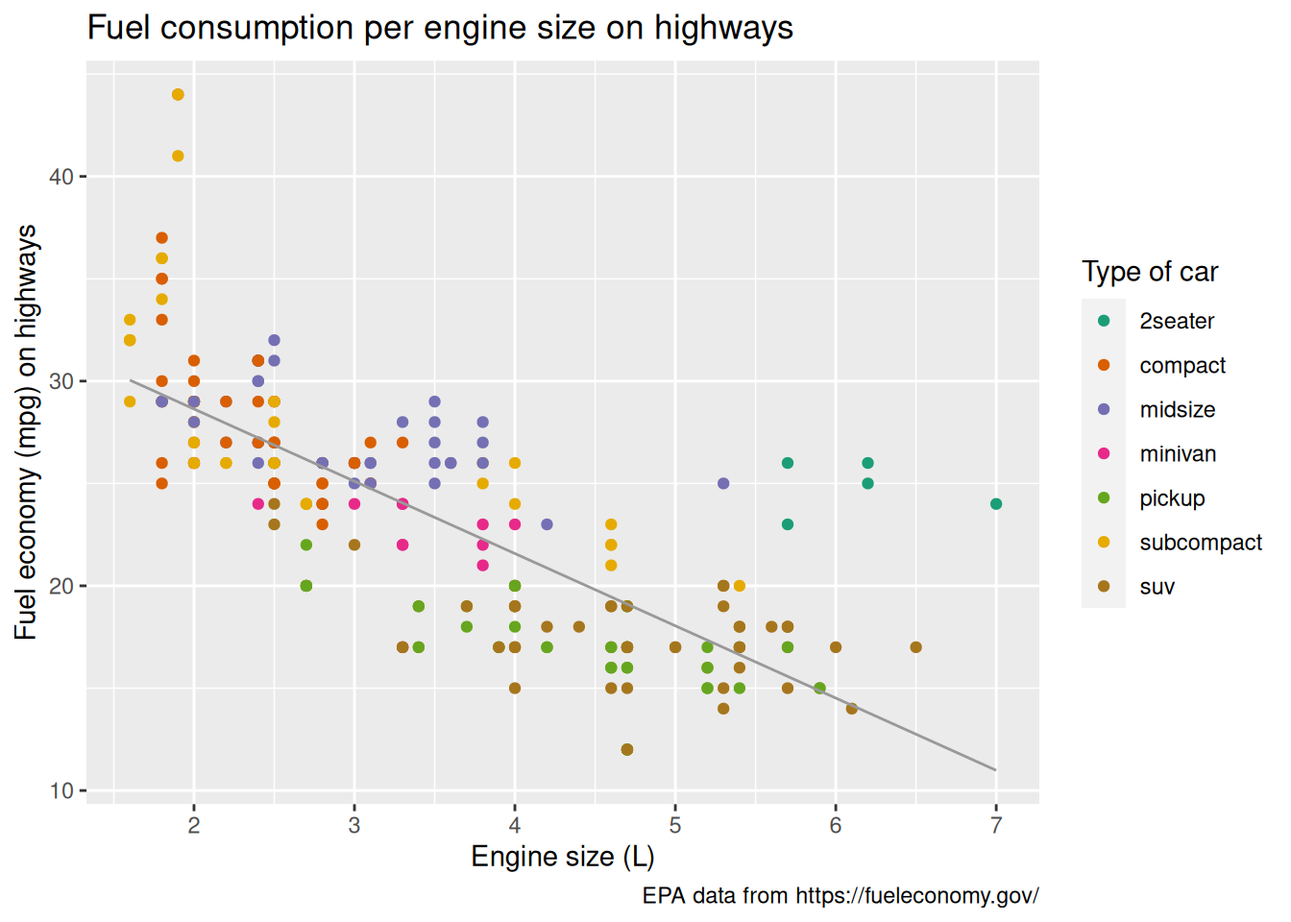
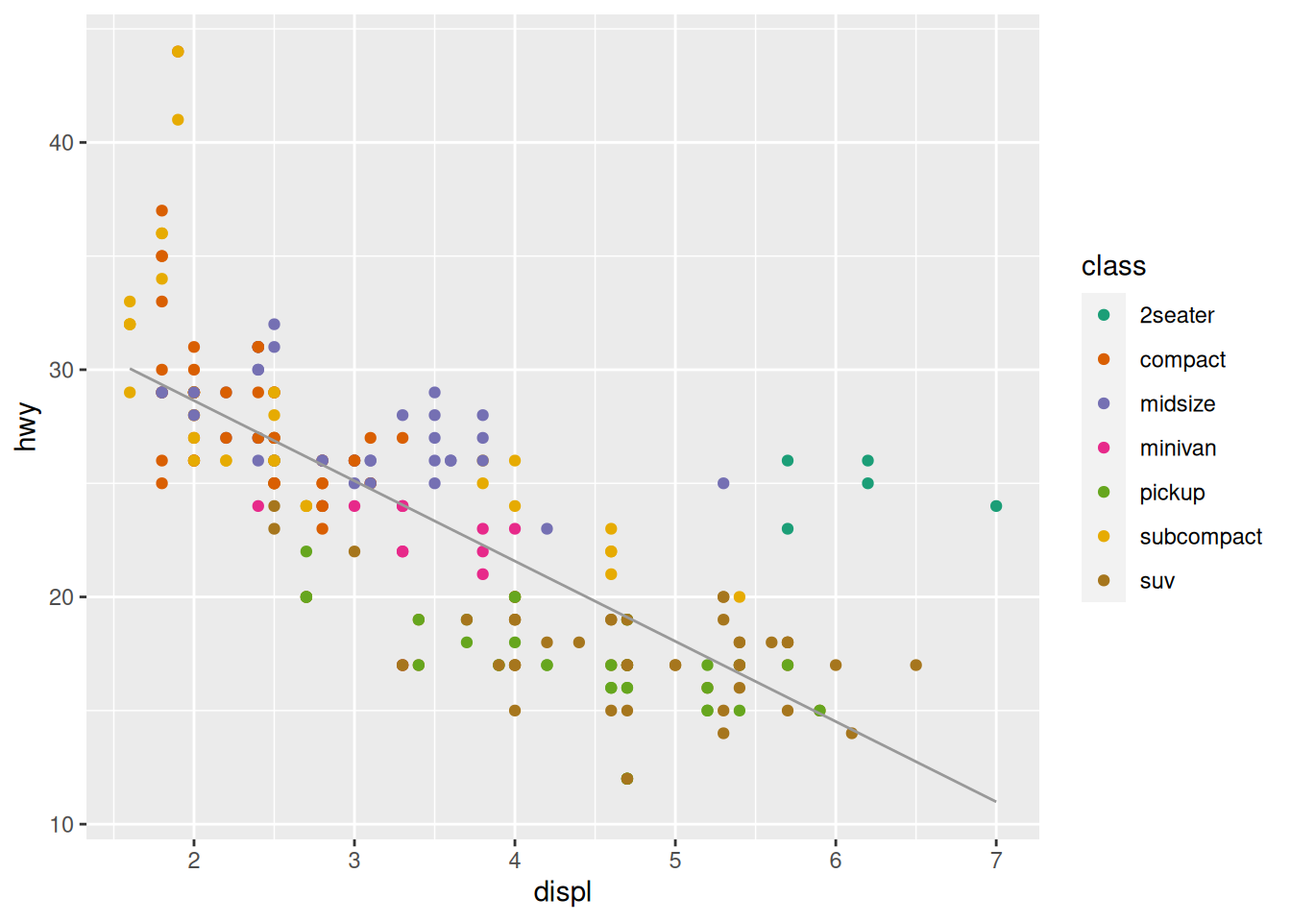
add color scale png

diff --git a/_site/r/plotting.html b/_site/r/plotting.html
@@ -400,7 +400,16 @@ code span.wa { color: #60a0b0; font-weight: bold; font-style: italic; } /* Warni
   <li><a href="#the-data" id="toc-the-data" class="nav-link active" data-scroll-target="#the-data">The data</a></li>
   <li><a href="#base-r-plotting" id="toc-base-r-plotting" class="nav-link" data-scroll-target="#base-r-plotting">Base R plotting</a></li>
   <li><a href="#grammar-of-graphics" id="toc-grammar-of-graphics" class="nav-link" data-scroll-target="#grammar-of-graphics">Grammar of graphics</a></li>
-  <li><a href="#plotting-with-ggplot2" id="toc-plotting-with-ggplot2" class="nav-link" data-scroll-target="#plotting-with-ggplot2">Plotting with ggplot2</a></li>
+  <li><a href="#plotting-with-ggplot2" id="toc-plotting-with-ggplot2" class="nav-link" data-scroll-target="#plotting-with-ggplot2">Plotting with <code>ggplot2</code></a>
+  <ul>
+  <li><a href="#the-canvas" id="toc-the-canvas" class="nav-link" data-scroll-target="#the-canvas">The Canvas</a></li>
+  <li><a href="#geometric-representations-of-the-data" id="toc-geometric-representations-of-the-data" class="nav-link" data-scroll-target="#geometric-representations-of-the-data">Geometric representations of the data</a></li>
+  <li><a href="#colour-scales" id="toc-colour-scales" class="nav-link" data-scroll-target="#colour-scales">Colour scales</a></li>
+  <li><a href="#labels" id="toc-labels" class="nav-link" data-scroll-target="#labels">Labels</a></li>
+  <li><a href="#themes" id="toc-themes" class="nav-link" data-scroll-target="#themes">Themes</a></li>
+  <li><a href="#layout" id="toc-layout" class="nav-link" data-scroll-target="#layout">Layout</a></li>
+  </ul></li>
+  <li><a href="#ggplot2-extensions" id="toc-ggplot2-extensions" class="nav-link" data-scroll-target="#ggplot2-extensions"><code>ggplot2</code> extensions</a></li>
   </ul>
 </nav>
     </div>
@@ -505,7 +514,9 @@ code span.wa { color: #60a0b0; font-weight: bold; font-style: italic; } /* Warni
 <p><code>ggplot2</code> has become the dominant graphing package in R. Let’s see how to construct a plot with this package.</p>
 </section>
 <section id="plotting-with-ggplot2" class="level2">
-<h2 class="anchored" data-anchor-id="plotting-with-ggplot2">Plotting with ggplot2</h2>
+<h2 class="anchored" data-anchor-id="plotting-with-ggplot2">Plotting with <code>ggplot2</code></h2>
+<section id="the-canvas" class="level3">
+<h3 class="anchored" data-anchor-id="the-canvas">The Canvas</h3>
 <p>The first component is the data:</p>
 <div class="cell" data-hash="plotting_cache/html/unnamed-chunk-4_e267c1664d6d338d6140af846a7780fd">
 <div class="sourceCode cell-code" id="cb5"><pre class="sourceCode r code-with-copy"><code class="sourceCode r"><span id="cb5-1"><a href="#cb5-1" aria-hidden="true" tabindex="-1"></a><span class="fu">ggplot</span>(<span class="at">data =</span> mpg)</span></code><button title="Copy to Clipboard" class="code-copy-button"><i class="bi"></i></button></pre></div>
@@ -526,6 +537,9 @@ code span.wa { color: #60a0b0; font-weight: bold; font-style: italic; } /* Warni
 <div class="note">
 <p>This can be simplified into <code>ggplot(mpg, aes(x = displ, y = hwy))</code>.</p>
 </div>
+</section>
+<section id="geometric-representations-of-the-data" class="level3">
+<h3 class="anchored" data-anchor-id="geometric-representations-of-the-data">Geometric representations of the data</h3>
 <p>Onto this canvas, we can add “geoms” (geometrical objects) representing the data. The type of “geom” defines the type of representation (e.g.&nbsp;boxplot, histogram, bar chart).</p>
 <p>To represent the data as a scatterplot, we use the <code>geom_point()</code> function:</p>
 <div class="cell" data-hash="plotting_cache/html/unnamed-chunk-6_8e58edafcd49ad40b73db693e29e498d">
@@ -551,35 +565,36 @@ code span.wa { color: #60a0b0; font-weight: bold; font-style: italic; } /* Warni
 <p><img src="plotting_files/figure-html/unnamed-chunk-8-1.png" class="img-fluid" width="672"></p>
 </div>
 </div>
-<p>If we want to change the colour scale, we add another layer for this:</p>
-<div class="cell" data-hash="plotting_cache/html/unnamed-chunk-9_082e68fc13b405d9e540e74b0bdf92d1">
+<p>Multiple “geoms” can be added on top of each other. For instance, we can add a smoothed conditional means function that aids at seeing patterns in the data with <code>geom_smooth()</code>:</p>
+<div class="cell" data-hash="plotting_cache/html/unnamed-chunk-9_2eba7516b5ddc95a9e43945d23e8078c">
 <div class="sourceCode cell-code" id="cb10"><pre class="sourceCode r code-with-copy"><code class="sourceCode r"><span id="cb10-1"><a href="#cb10-1" aria-hidden="true" tabindex="-1"></a><span class="fu">ggplot</span>(mpg, <span class="fu">aes</span>(<span class="at">x =</span> displ, <span class="at">y =</span> hwy)) <span class="sc">+</span></span>
 <span id="cb10-2"><a href="#cb10-2" aria-hidden="true" tabindex="-1"></a>  <span class="fu">geom_point</span>(<span class="fu">aes</span>(<span class="at">color =</span> class)) <span class="sc">+</span></span>
-<span id="cb10-3"><a href="#cb10-3" aria-hidden="true" tabindex="-1"></a>  <span class="fu">scale_color_brewer</span>(<span class="at">palette =</span> <span class="st">"Dark2"</span>)</span></code><button title="Copy to Clipboard" class="code-copy-button"><i class="bi"></i></button></pre></div>
+<span id="cb10-3"><a href="#cb10-3" aria-hidden="true" tabindex="-1"></a>  <span class="fu">geom_smooth</span>()</span></code><button title="Copy to Clipboard" class="code-copy-button"><i class="bi"></i></button></pre></div>
+<div class="cell-output cell-output-stderr">
+<pre><code>`geom_smooth()` using method = 'loess' and formula = 'y ~ x'</code></pre>
+</div>
 <div class="cell-output-display">
 <p><img src="plotting_files/figure-html/unnamed-chunk-9-1.png" class="img-fluid" width="672"></p>
 </div>
 </div>
-<p>Multiple “geoms” can be added on top of each other. For instance, we can add a smoothed conditional means function that aids at seeing patterns in the data with <code>geom_smooth()</code>:</p>
-<div class="cell" data-hash="plotting_cache/html/unnamed-chunk-10_b673544f2194e94bdd2edecc56e6688a">
-<div class="sourceCode cell-code" id="cb11"><pre class="sourceCode r code-with-copy"><code class="sourceCode r"><span id="cb11-1"><a href="#cb11-1" aria-hidden="true" tabindex="-1"></a><span class="fu">ggplot</span>(mpg, <span class="fu">aes</span>(<span class="at">x =</span> displ, <span class="at">y =</span> hwy)) <span class="sc">+</span></span>
-<span id="cb11-2"><a href="#cb11-2" aria-hidden="true" tabindex="-1"></a>  <span class="fu">geom_point</span>(<span class="fu">aes</span>(<span class="at">color =</span> class)) <span class="sc">+</span></span>
-<span id="cb11-3"><a href="#cb11-3" aria-hidden="true" tabindex="-1"></a>  <span class="fu">scale_color_brewer</span>(<span class="at">palette =</span> <span class="st">"Dark2"</span>) <span class="sc">+</span></span>
-<span id="cb11-4"><a href="#cb11-4" aria-hidden="true" tabindex="-1"></a>  <span class="fu">geom_smooth</span>()</span></code><button title="Copy to Clipboard" class="code-copy-button"><i class="bi"></i></button></pre></div>
+<p>Thanks to the colour-coding of the types of car, we can see that the cluster of points in the top right corner all belong to the same type: 2 seaters. Those are outliers with high power, yet high few efficiency due to their smaller size.</p>
+<p>The default smoothing function uses the LOESS (locally estimated scatterplot smoothing) method, which is a nonlinear regression. But maybe a linear model would actually show the general trend better. We can change the method by passing it as an argument to <code>geom_smooth()</code>:</p>
+<div class="cell" data-hash="plotting_cache/html/unnamed-chunk-10_a9f4a8fe9386c2d6337126f91f4f989c">
+<div class="sourceCode cell-code" id="cb12"><pre class="sourceCode r code-with-copy"><code class="sourceCode r"><span id="cb12-1"><a href="#cb12-1" aria-hidden="true" tabindex="-1"></a><span class="fu">ggplot</span>(mpg, <span class="fu">aes</span>(<span class="at">x =</span> displ, <span class="at">y =</span> hwy)) <span class="sc">+</span></span>
+<span id="cb12-2"><a href="#cb12-2" aria-hidden="true" tabindex="-1"></a>  <span class="fu">geom_point</span>(<span class="fu">aes</span>(<span class="at">color =</span> class)) <span class="sc">+</span></span>
+<span id="cb12-3"><a href="#cb12-3" aria-hidden="true" tabindex="-1"></a>  <span class="fu">geom_smooth</span>(<span class="at">method =</span> lm)</span></code><button title="Copy to Clipboard" class="code-copy-button"><i class="bi"></i></button></pre></div>
 <div class="cell-output cell-output-stderr">
-<pre><code>`geom_smooth()` using method = 'loess' and formula = 'y ~ x'</code></pre>
+<pre><code>`geom_smooth()` using formula = 'y ~ x'</code></pre>
 </div>
 <div class="cell-output-display">
 <p><img src="plotting_files/figure-html/unnamed-chunk-10-1.png" class="img-fluid" width="672"></p>
 </div>
 </div>
-<p>Thanks to the colour-coding of the types of car, we can see that the cluster of points in the top right corner all belong to the same type: 2 seaters. Those are outliers with high power, yet high few efficiency due to their smaller size.</p>
-<p>The default smoothing function uses the LOESS (locally estimated scatterplot smoothing) method, which is a nonlinear regression. But maybe a linear model would actually show the general trend better. We can change the method by passing it as an argument to <code>geom_smooth()</code>:</p>
-<div class="cell" data-hash="plotting_cache/html/unnamed-chunk-11_0fa237da1ec940520f8f129c54158da4">
-<div class="sourceCode cell-code" id="cb13"><pre class="sourceCode r code-with-copy"><code class="sourceCode r"><span id="cb13-1"><a href="#cb13-1" aria-hidden="true" tabindex="-1"></a><span class="fu">ggplot</span>(mpg, <span class="fu">aes</span>(<span class="at">x =</span> displ, <span class="at">y =</span> hwy)) <span class="sc">+</span></span>
-<span id="cb13-2"><a href="#cb13-2" aria-hidden="true" tabindex="-1"></a>  <span class="fu">geom_point</span>(<span class="fu">aes</span>(<span class="at">color =</span> class)) <span class="sc">+</span></span>
-<span id="cb13-3"><a href="#cb13-3" aria-hidden="true" tabindex="-1"></a>  <span class="fu">scale_color_brewer</span>(<span class="at">palette =</span> <span class="st">"Dark2"</span>) <span class="sc">+</span></span>
-<span id="cb13-4"><a href="#cb13-4" aria-hidden="true" tabindex="-1"></a>  <span class="fu">geom_smooth</span>(<span class="at">method =</span> lm)</span></code><button title="Copy to Clipboard" class="code-copy-button"><i class="bi"></i></button></pre></div>
+<p>Of course, we could apply the smoothing function to each class instead of the entire data. It creates a busy plot but shows that the downward trend remains true within each type of car:</p>
+<div class="cell" data-hash="plotting_cache/html/unnamed-chunk-11_e0cfadf8f75219aed8f8457ef06af614">
+<div class="sourceCode cell-code" id="cb14"><pre class="sourceCode r code-with-copy"><code class="sourceCode r"><span id="cb14-1"><a href="#cb14-1" aria-hidden="true" tabindex="-1"></a><span class="fu">ggplot</span>(mpg, <span class="fu">aes</span>(<span class="at">x =</span> displ, <span class="at">y =</span> hwy, <span class="at">color =</span> class)) <span class="sc">+</span></span>
+<span id="cb14-2"><a href="#cb14-2" aria-hidden="true" tabindex="-1"></a>  <span class="fu">geom_point</span>(<span class="fu">aes</span>(<span class="at">color =</span> class)) <span class="sc">+</span></span>
+<span id="cb14-3"><a href="#cb14-3" aria-hidden="true" tabindex="-1"></a>  <span class="fu">geom_smooth</span>(<span class="at">method =</span> lm)</span></code><button title="Copy to Clipboard" class="code-copy-button"><i class="bi"></i></button></pre></div>
 <div class="cell-output cell-output-stderr">
 <pre><code>`geom_smooth()` using formula = 'y ~ x'</code></pre>
 </div>
@@ -588,11 +603,10 @@ code span.wa { color: #60a0b0; font-weight: bold; font-style: italic; } /* Warni
 </div>
 </div>
 <p>Other arguments to <code>geom_smooth()</code> can set the line width, color, or whether or not the standard error (<code>se</code>) is shown:</p>
-<div class="cell" data-hash="plotting_cache/html/unnamed-chunk-12_d85833aaf068e97b1028e8a4414e82a6">
-<div class="sourceCode cell-code" id="cb15"><pre class="sourceCode r code-with-copy"><code class="sourceCode r"><span id="cb15-1"><a href="#cb15-1" aria-hidden="true" tabindex="-1"></a><span class="fu">ggplot</span>(mpg, <span class="fu">aes</span>(<span class="at">x =</span> displ, <span class="at">y =</span> hwy)) <span class="sc">+</span></span>
-<span id="cb15-2"><a href="#cb15-2" aria-hidden="true" tabindex="-1"></a>  <span class="fu">geom_point</span>(<span class="fu">aes</span>(<span class="at">color =</span> class)) <span class="sc">+</span></span>
-<span id="cb15-3"><a href="#cb15-3" aria-hidden="true" tabindex="-1"></a>  <span class="fu">scale_color_brewer</span>(<span class="at">palette =</span> <span class="st">"Dark2"</span>) <span class="sc">+</span></span>
-<span id="cb15-4"><a href="#cb15-4" aria-hidden="true" tabindex="-1"></a>  <span class="fu">geom_smooth</span>(<span class="at">method =</span> lm, <span class="at">se =</span> <span class="cn">FALSE</span>, <span class="at">color =</span> <span class="st">"#999999"</span>, <span class="at">linewidth =</span> <span class="fl">0.5</span>)</span></code><button title="Copy to Clipboard" class="code-copy-button"><i class="bi"></i></button></pre></div>
+<div class="cell" data-hash="plotting_cache/html/unnamed-chunk-12_3780e8145ec66f637d327fc0efeaa907">
+<div class="sourceCode cell-code" id="cb16"><pre class="sourceCode r code-with-copy"><code class="sourceCode r"><span id="cb16-1"><a href="#cb16-1" aria-hidden="true" tabindex="-1"></a><span class="fu">ggplot</span>(mpg, <span class="fu">aes</span>(<span class="at">x =</span> displ, <span class="at">y =</span> hwy)) <span class="sc">+</span></span>
+<span id="cb16-2"><a href="#cb16-2" aria-hidden="true" tabindex="-1"></a>  <span class="fu">geom_point</span>(<span class="fu">aes</span>(<span class="at">color =</span> class)) <span class="sc">+</span></span>
+<span id="cb16-3"><a href="#cb16-3" aria-hidden="true" tabindex="-1"></a>  <span class="fu">geom_smooth</span>(<span class="at">method =</span> lm, <span class="at">se =</span> <span class="cn">FALSE</span>, <span class="at">color =</span> <span class="st">"#999999"</span>, <span class="at">linewidth =</span> <span class="fl">0.5</span>)</span></code><button title="Copy to Clipboard" class="code-copy-button"><i class="bi"></i></button></pre></div>
 <div class="cell-output cell-output-stderr">
 <pre><code>`geom_smooth()` using formula = 'y ~ x'</code></pre>
 </div>
@@ -600,19 +614,15 @@ code span.wa { color: #60a0b0; font-weight: bold; font-style: italic; } /* Warni
 <p><img src="plotting_files/figure-html/unnamed-chunk-12-1.png" class="img-fluid" width="672"></p>
 </div>
 </div>
-<p>We can keep on adding layers. For instance, the <code>labs()</code> function allows to set title, subtitle, captions, tags, axes labels, etc.</p>
-<div class="cell" data-hash="plotting_cache/html/unnamed-chunk-13_cfac495b6809ce5794f86870afdad236">
-<div class="sourceCode cell-code" id="cb17"><pre class="sourceCode r code-with-copy"><code class="sourceCode r"><span id="cb17-1"><a href="#cb17-1" aria-hidden="true" tabindex="-1"></a><span class="fu">ggplot</span>(mpg, <span class="fu">aes</span>(<span class="at">x =</span> displ, <span class="at">y =</span> hwy)) <span class="sc">+</span></span>
-<span id="cb17-2"><a href="#cb17-2" aria-hidden="true" tabindex="-1"></a>  <span class="fu">geom_point</span>(<span class="fu">aes</span>(<span class="at">color =</span> class)) <span class="sc">+</span></span>
-<span id="cb17-3"><a href="#cb17-3" aria-hidden="true" tabindex="-1"></a>  <span class="fu">scale_color_brewer</span>(<span class="at">palette =</span> <span class="st">"Dark2"</span>) <span class="sc">+</span></span>
-<span id="cb17-4"><a href="#cb17-4" aria-hidden="true" tabindex="-1"></a>  <span class="fu">geom_smooth</span>(<span class="at">method =</span> lm, <span class="at">se =</span> <span class="cn">FALSE</span>, <span class="at">color =</span> <span class="st">"#999999"</span>, <span class="at">linewidth =</span> <span class="fl">0.5</span>) <span class="sc">+</span></span>
-<span id="cb17-5"><a href="#cb17-5" aria-hidden="true" tabindex="-1"></a>  <span class="fu">labs</span>(</span>
-<span id="cb17-6"><a href="#cb17-6" aria-hidden="true" tabindex="-1"></a>    <span class="at">title =</span> <span class="st">"Fuel consumption per engine size on highways"</span>,</span>
-<span id="cb17-7"><a href="#cb17-7" aria-hidden="true" tabindex="-1"></a>    <span class="at">x =</span> <span class="st">"Engine size (L)"</span>,</span>
-<span id="cb17-8"><a href="#cb17-8" aria-hidden="true" tabindex="-1"></a>    <span class="at">y =</span> <span class="st">"Fuel economy (mpg) on highways"</span>,</span>
-<span id="cb17-9"><a href="#cb17-9" aria-hidden="true" tabindex="-1"></a>    <span class="at">color =</span> <span class="st">"Type of car"</span>,</span>
-<span id="cb17-10"><a href="#cb17-10" aria-hidden="true" tabindex="-1"></a>    <span class="at">caption =</span> <span class="st">"EPA data from https://fueleconomy.gov/"</span></span>
-<span id="cb17-11"><a href="#cb17-11" aria-hidden="true" tabindex="-1"></a>  )</span></code><button title="Copy to Clipboard" class="code-copy-button"><i class="bi"></i></button></pre></div>
+</section>
+<section id="colour-scales" class="level3">
+<h3 class="anchored" data-anchor-id="colour-scales">Colour scales</h3>
+<p>If we want to change the colour scale, we add another layer for this:</p>
+<div class="cell" data-hash="plotting_cache/html/unnamed-chunk-13_1cef0576a693dedc2d64fe35b930e484">
+<div class="sourceCode cell-code" id="cb18"><pre class="sourceCode r code-with-copy"><code class="sourceCode r"><span id="cb18-1"><a href="#cb18-1" aria-hidden="true" tabindex="-1"></a><span class="fu">ggplot</span>(mpg, <span class="fu">aes</span>(<span class="at">x =</span> displ, <span class="at">y =</span> hwy)) <span class="sc">+</span></span>
+<span id="cb18-2"><a href="#cb18-2" aria-hidden="true" tabindex="-1"></a>  <span class="fu">geom_point</span>(<span class="fu">aes</span>(<span class="at">color =</span> class)) <span class="sc">+</span></span>
+<span id="cb18-3"><a href="#cb18-3" aria-hidden="true" tabindex="-1"></a>  <span class="fu">scale_color_brewer</span>(<span class="at">palette =</span> <span class="st">"Dark2"</span>) <span class="sc">+</span></span>
+<span id="cb18-4"><a href="#cb18-4" aria-hidden="true" tabindex="-1"></a>  <span class="fu">geom_smooth</span>(<span class="at">method =</span> lm, <span class="at">se =</span> <span class="cn">FALSE</span>, <span class="at">color =</span> <span class="st">"#999999"</span>, <span class="at">linewidth =</span> <span class="fl">0.5</span>)</span></code><button title="Copy to Clipboard" class="code-copy-button"><i class="bi"></i></button></pre></div>
 <div class="cell-output cell-output-stderr">
 <pre><code>`geom_smooth()` using formula = 'y ~ x'</code></pre>
 </div>
@@ -620,22 +630,24 @@ code span.wa { color: #60a0b0; font-weight: bold; font-style: italic; } /* Warni
 <p><img src="plotting_files/figure-html/unnamed-chunk-13-1.png" class="img-fluid" width="672"></p>
 </div>
 </div>
-<p>Another optional layer sets one of several preset themes.</p>
-<p><a href="https://en.wikipedia.org/wiki/Edward_Tufte">Edward Tufte</a> developed, amongst others, the principle of <em>data-ink ratio</em> which emphasizes that ink should be used primarily where it communicates meaningful messages. It is indeed common to see charts where more ink is used in labels or background than in the actual representation of the data.</p>
-<p>The default <code>ggplot2</code> theme could be criticized as not following this principle. Let’s change it:</p>
-<div class="cell" data-hash="plotting_cache/html/unnamed-chunk-14_c7a441833b4420a8b819123dcf8f5a0d">
-<div class="sourceCode cell-code" id="cb19"><pre class="sourceCode r code-with-copy"><code class="sourceCode r"><span id="cb19-1"><a href="#cb19-1" aria-hidden="true" tabindex="-1"></a><span class="fu">ggplot</span>(mpg, <span class="fu">aes</span>(<span class="at">x =</span> displ, <span class="at">y =</span> hwy)) <span class="sc">+</span></span>
-<span id="cb19-2"><a href="#cb19-2" aria-hidden="true" tabindex="-1"></a>  <span class="fu">geom_point</span>(<span class="fu">aes</span>(<span class="at">color =</span> class)) <span class="sc">+</span></span>
-<span id="cb19-3"><a href="#cb19-3" aria-hidden="true" tabindex="-1"></a>  <span class="fu">scale_color_brewer</span>(<span class="at">palette =</span> <span class="st">"Dark2"</span>) <span class="sc">+</span></span>
-<span id="cb19-4"><a href="#cb19-4" aria-hidden="true" tabindex="-1"></a>  <span class="fu">geom_smooth</span>(<span class="at">method =</span> lm, <span class="at">se =</span> <span class="cn">FALSE</span>, <span class="at">color =</span> <span class="st">"#999999"</span>, <span class="at">linewidth =</span> <span class="fl">0.5</span>) <span class="sc">+</span></span>
-<span id="cb19-5"><a href="#cb19-5" aria-hidden="true" tabindex="-1"></a>  <span class="fu">labs</span>(</span>
-<span id="cb19-6"><a href="#cb19-6" aria-hidden="true" tabindex="-1"></a>    <span class="at">title =</span> <span class="st">"Fuel consumption per engine size on highways"</span>,</span>
-<span id="cb19-7"><a href="#cb19-7" aria-hidden="true" tabindex="-1"></a>    <span class="at">x =</span> <span class="st">"Engine size (L)"</span>,</span>
-<span id="cb19-8"><a href="#cb19-8" aria-hidden="true" tabindex="-1"></a>    <span class="at">y =</span> <span class="st">"Fuel economy (mpg) on highways"</span>,</span>
-<span id="cb19-9"><a href="#cb19-9" aria-hidden="true" tabindex="-1"></a>    <span class="at">color =</span> <span class="st">"Type of car"</span>,</span>
-<span id="cb19-10"><a href="#cb19-10" aria-hidden="true" tabindex="-1"></a>    <span class="at">caption =</span> <span class="st">"EPA data from https://fueleconomy.gov/"</span></span>
-<span id="cb19-11"><a href="#cb19-11" aria-hidden="true" tabindex="-1"></a>  ) <span class="sc">+</span></span>
-<span id="cb19-12"><a href="#cb19-12" aria-hidden="true" tabindex="-1"></a>  <span class="fu">theme_classic</span>()</span></code><button title="Copy to Clipboard" class="code-copy-button"><i class="bi"></i></button></pre></div>
+<p><code>scale_color_brewer()</code>, based on <a href="https://colorbrewer2.org/#type=sequential&amp;scheme=BuGn&amp;n=3">color brewer 2.0</a>, is one of many methods to change the color scale. Here is the list of available scales for this particular method:</p>
+<p><img src="img/color_scale.png" class="img-fluid" style="width:90.0%"></p>
+</section>
+<section id="labels" class="level3">
+<h3 class="anchored" data-anchor-id="labels">Labels</h3>
+<p>We can keep on adding layers. For instance, the <code>labs()</code> function allows to set title, subtitle, captions, tags, axes labels, etc.</p>
+<div class="cell" data-hash="plotting_cache/html/unnamed-chunk-14_a251ad7dc9e3f0f1a02334b832a425e4">
+<div class="sourceCode cell-code" id="cb20"><pre class="sourceCode r code-with-copy"><code class="sourceCode r"><span id="cb20-1"><a href="#cb20-1" aria-hidden="true" tabindex="-1"></a><span class="fu">ggplot</span>(mpg, <span class="fu">aes</span>(<span class="at">x =</span> displ, <span class="at">y =</span> hwy)) <span class="sc">+</span></span>
+<span id="cb20-2"><a href="#cb20-2" aria-hidden="true" tabindex="-1"></a>  <span class="fu">geom_point</span>(<span class="fu">aes</span>(<span class="at">color =</span> class)) <span class="sc">+</span></span>
+<span id="cb20-3"><a href="#cb20-3" aria-hidden="true" tabindex="-1"></a>  <span class="fu">scale_color_brewer</span>(<span class="at">palette =</span> <span class="st">"Dark2"</span>) <span class="sc">+</span></span>
+<span id="cb20-4"><a href="#cb20-4" aria-hidden="true" tabindex="-1"></a>  <span class="fu">geom_smooth</span>(<span class="at">method =</span> lm, <span class="at">se =</span> <span class="cn">FALSE</span>, <span class="at">color =</span> <span class="st">"#999999"</span>, <span class="at">linewidth =</span> <span class="fl">0.5</span>) <span class="sc">+</span></span>
+<span id="cb20-5"><a href="#cb20-5" aria-hidden="true" tabindex="-1"></a>  <span class="fu">labs</span>(</span>
+<span id="cb20-6"><a href="#cb20-6" aria-hidden="true" tabindex="-1"></a>    <span class="at">title =</span> <span class="st">"Fuel consumption per engine size on highways"</span>,</span>
+<span id="cb20-7"><a href="#cb20-7" aria-hidden="true" tabindex="-1"></a>    <span class="at">x =</span> <span class="st">"Engine size (L)"</span>,</span>
+<span id="cb20-8"><a href="#cb20-8" aria-hidden="true" tabindex="-1"></a>    <span class="at">y =</span> <span class="st">"Fuel economy (mpg) on highways"</span>,</span>
+<span id="cb20-9"><a href="#cb20-9" aria-hidden="true" tabindex="-1"></a>    <span class="at">color =</span> <span class="st">"Type of car"</span>,</span>
+<span id="cb20-10"><a href="#cb20-10" aria-hidden="true" tabindex="-1"></a>    <span class="at">caption =</span> <span class="st">"EPA data from https://fueleconomy.gov/"</span></span>
+<span id="cb20-11"><a href="#cb20-11" aria-hidden="true" tabindex="-1"></a>  )</span></code><button title="Copy to Clipboard" class="code-copy-button"><i class="bi"></i></button></pre></div>
 <div class="cell-output cell-output-stderr">
 <pre><code>`geom_smooth()` using formula = 'y ~ x'</code></pre>
 </div>
@@ -643,21 +655,25 @@ code span.wa { color: #60a0b0; font-weight: bold; font-style: italic; } /* Warni
 <p><img src="plotting_files/figure-html/unnamed-chunk-14-1.png" class="img-fluid" width="672"></p>
 </div>
 </div>
-<p>The <code>theme()</code> function allows to tweak the theme in any number of ways. For instance, what if we don’t like the default position of the title and we’d rather have it centered?</p>
-<div class="cell" data-hash="plotting_cache/html/unnamed-chunk-15_92e74eae79d3e6ee79570e796f2b44d6">
-<div class="sourceCode cell-code" id="cb21"><pre class="sourceCode r code-with-copy"><code class="sourceCode r"><span id="cb21-1"><a href="#cb21-1" aria-hidden="true" tabindex="-1"></a><span class="fu">ggplot</span>(mpg, <span class="fu">aes</span>(<span class="at">x =</span> displ, <span class="at">y =</span> hwy)) <span class="sc">+</span></span>
-<span id="cb21-2"><a href="#cb21-2" aria-hidden="true" tabindex="-1"></a>  <span class="fu">geom_point</span>(<span class="fu">aes</span>(<span class="at">color =</span> class)) <span class="sc">+</span></span>
-<span id="cb21-3"><a href="#cb21-3" aria-hidden="true" tabindex="-1"></a>  <span class="fu">scale_color_brewer</span>(<span class="at">palette =</span> <span class="st">"Dark2"</span>) <span class="sc">+</span></span>
-<span id="cb21-4"><a href="#cb21-4" aria-hidden="true" tabindex="-1"></a>  <span class="fu">geom_smooth</span>(<span class="at">method =</span> lm, <span class="at">se =</span> <span class="cn">FALSE</span>, <span class="at">color =</span> <span class="st">"#999999"</span>, <span class="at">linewidth =</span> <span class="fl">0.5</span>) <span class="sc">+</span></span>
-<span id="cb21-5"><a href="#cb21-5" aria-hidden="true" tabindex="-1"></a>  <span class="fu">labs</span>(</span>
-<span id="cb21-6"><a href="#cb21-6" aria-hidden="true" tabindex="-1"></a>    <span class="at">title =</span> <span class="st">"Fuel consumption per engine size on highways"</span>,</span>
-<span id="cb21-7"><a href="#cb21-7" aria-hidden="true" tabindex="-1"></a>    <span class="at">x =</span> <span class="st">"Engine size (L)"</span>,</span>
-<span id="cb21-8"><a href="#cb21-8" aria-hidden="true" tabindex="-1"></a>    <span class="at">y =</span> <span class="st">"Fuel economy (mpg) on highways"</span>,</span>
-<span id="cb21-9"><a href="#cb21-9" aria-hidden="true" tabindex="-1"></a>    <span class="at">color =</span> <span class="st">"Type of car"</span>,</span>
-<span id="cb21-10"><a href="#cb21-10" aria-hidden="true" tabindex="-1"></a>    <span class="at">caption =</span> <span class="st">"EPA data from https://fueleconomy.gov/"</span></span>
-<span id="cb21-11"><a href="#cb21-11" aria-hidden="true" tabindex="-1"></a>  ) <span class="sc">+</span></span>
-<span id="cb21-12"><a href="#cb21-12" aria-hidden="true" tabindex="-1"></a>  <span class="fu">theme_classic</span>() <span class="sc">+</span></span>
-<span id="cb21-13"><a href="#cb21-13" aria-hidden="true" tabindex="-1"></a>  <span class="fu">theme</span>(<span class="at">plot.title =</span> <span class="fu">element_text</span>(<span class="at">hjust =</span> <span class="fl">0.5</span>))</span></code><button title="Copy to Clipboard" class="code-copy-button"><i class="bi"></i></button></pre></div>
+</section>
+<section id="themes" class="level3">
+<h3 class="anchored" data-anchor-id="themes">Themes</h3>
+<p>Another optional layer sets one of several preset themes.</p>
+<p><a href="https://en.wikipedia.org/wiki/Edward_Tufte">Edward Tufte</a> developed, amongst others, the principle of <em>data-ink ratio</em> which emphasizes that ink should be used primarily where it communicates meaningful messages. It is indeed common to see charts where more ink is used in labels or background than in the actual representation of the data.</p>
+<p>The default <code>ggplot2</code> theme could be criticized as not following this principle. Let’s change it:</p>
+<div class="cell" data-hash="plotting_cache/html/unnamed-chunk-15_f52b8bbe4ac3bbb9c61bd191bb1d1164">
+<div class="sourceCode cell-code" id="cb22"><pre class="sourceCode r code-with-copy"><code class="sourceCode r"><span id="cb22-1"><a href="#cb22-1" aria-hidden="true" tabindex="-1"></a><span class="fu">ggplot</span>(mpg, <span class="fu">aes</span>(<span class="at">x =</span> displ, <span class="at">y =</span> hwy)) <span class="sc">+</span></span>
+<span id="cb22-2"><a href="#cb22-2" aria-hidden="true" tabindex="-1"></a>  <span class="fu">geom_point</span>(<span class="fu">aes</span>(<span class="at">color =</span> class)) <span class="sc">+</span></span>
+<span id="cb22-3"><a href="#cb22-3" aria-hidden="true" tabindex="-1"></a>  <span class="fu">scale_color_brewer</span>(<span class="at">palette =</span> <span class="st">"Dark2"</span>) <span class="sc">+</span></span>
+<span id="cb22-4"><a href="#cb22-4" aria-hidden="true" tabindex="-1"></a>  <span class="fu">geom_smooth</span>(<span class="at">method =</span> lm, <span class="at">se =</span> <span class="cn">FALSE</span>, <span class="at">color =</span> <span class="st">"#999999"</span>, <span class="at">linewidth =</span> <span class="fl">0.5</span>) <span class="sc">+</span></span>
+<span id="cb22-5"><a href="#cb22-5" aria-hidden="true" tabindex="-1"></a>  <span class="fu">labs</span>(</span>
+<span id="cb22-6"><a href="#cb22-6" aria-hidden="true" tabindex="-1"></a>    <span class="at">title =</span> <span class="st">"Fuel consumption per engine size on highways"</span>,</span>
+<span id="cb22-7"><a href="#cb22-7" aria-hidden="true" tabindex="-1"></a>    <span class="at">x =</span> <span class="st">"Engine size (L)"</span>,</span>
+<span id="cb22-8"><a href="#cb22-8" aria-hidden="true" tabindex="-1"></a>    <span class="at">y =</span> <span class="st">"Fuel economy (mpg) on highways"</span>,</span>
+<span id="cb22-9"><a href="#cb22-9" aria-hidden="true" tabindex="-1"></a>    <span class="at">color =</span> <span class="st">"Type of car"</span>,</span>
+<span id="cb22-10"><a href="#cb22-10" aria-hidden="true" tabindex="-1"></a>    <span class="at">caption =</span> <span class="st">"EPA data from https://fueleconomy.gov/"</span></span>
+<span id="cb22-11"><a href="#cb22-11" aria-hidden="true" tabindex="-1"></a>  ) <span class="sc">+</span></span>
+<span id="cb22-12"><a href="#cb22-12" aria-hidden="true" tabindex="-1"></a>  <span class="fu">theme_classic</span>()</span></code><button title="Copy to Clipboard" class="code-copy-button"><i class="bi"></i></button></pre></div>
 <div class="cell-output cell-output-stderr">
 <pre><code>`geom_smooth()` using formula = 'y ~ x'</code></pre>
 </div>
@@ -665,8 +681,71 @@ code span.wa { color: #60a0b0; font-weight: bold; font-style: italic; } /* Warni
 <p><img src="plotting_files/figure-html/unnamed-chunk-15-1.png" class="img-fluid" width="672"></p>
 </div>
 </div>
+<p>The <code>theme()</code> function allows to tweak the theme in any number of ways. For instance, what if we don’t like the default position of the title and we’d rather have it centered?</p>
+<div class="cell" data-hash="plotting_cache/html/unnamed-chunk-16_15d9332a4775bdaf9683c4eca5b88a90">
+<div class="sourceCode cell-code" id="cb24"><pre class="sourceCode r code-with-copy"><code class="sourceCode r"><span id="cb24-1"><a href="#cb24-1" aria-hidden="true" tabindex="-1"></a><span class="fu">ggplot</span>(mpg, <span class="fu">aes</span>(<span class="at">x =</span> displ, <span class="at">y =</span> hwy)) <span class="sc">+</span></span>
+<span id="cb24-2"><a href="#cb24-2" aria-hidden="true" tabindex="-1"></a>  <span class="fu">geom_point</span>(<span class="fu">aes</span>(<span class="at">color =</span> class)) <span class="sc">+</span></span>
+<span id="cb24-3"><a href="#cb24-3" aria-hidden="true" tabindex="-1"></a>  <span class="fu">scale_color_brewer</span>(<span class="at">palette =</span> <span class="st">"Dark2"</span>) <span class="sc">+</span></span>
+<span id="cb24-4"><a href="#cb24-4" aria-hidden="true" tabindex="-1"></a>  <span class="fu">geom_smooth</span>(<span class="at">method =</span> lm, <span class="at">se =</span> <span class="cn">FALSE</span>, <span class="at">color =</span> <span class="st">"#999999"</span>, <span class="at">linewidth =</span> <span class="fl">0.5</span>) <span class="sc">+</span></span>
+<span id="cb24-5"><a href="#cb24-5" aria-hidden="true" tabindex="-1"></a>  <span class="fu">labs</span>(</span>
+<span id="cb24-6"><a href="#cb24-6" aria-hidden="true" tabindex="-1"></a>    <span class="at">title =</span> <span class="st">"Fuel consumption per engine size on highways"</span>,</span>
+<span id="cb24-7"><a href="#cb24-7" aria-hidden="true" tabindex="-1"></a>    <span class="at">x =</span> <span class="st">"Engine size (L)"</span>,</span>
+<span id="cb24-8"><a href="#cb24-8" aria-hidden="true" tabindex="-1"></a>    <span class="at">y =</span> <span class="st">"Fuel economy (mpg) on highways"</span>,</span>
+<span id="cb24-9"><a href="#cb24-9" aria-hidden="true" tabindex="-1"></a>    <span class="at">color =</span> <span class="st">"Type of car"</span>,</span>
+<span id="cb24-10"><a href="#cb24-10" aria-hidden="true" tabindex="-1"></a>    <span class="at">caption =</span> <span class="st">"EPA data from https://fueleconomy.gov/"</span></span>
+<span id="cb24-11"><a href="#cb24-11" aria-hidden="true" tabindex="-1"></a>  ) <span class="sc">+</span></span>
+<span id="cb24-12"><a href="#cb24-12" aria-hidden="true" tabindex="-1"></a>  <span class="fu">theme_classic</span>() <span class="sc">+</span></span>
+<span id="cb24-13"><a href="#cb24-13" aria-hidden="true" tabindex="-1"></a>  <span class="fu">theme</span>(<span class="at">plot.title =</span> <span class="fu">element_text</span>(<span class="at">hjust =</span> <span class="fl">0.5</span>))</span></code><button title="Copy to Clipboard" class="code-copy-button"><i class="bi"></i></button></pre></div>
+<div class="cell-output cell-output-stderr">
+<pre><code>`geom_smooth()` using formula = 'y ~ x'</code></pre>
+</div>
+<div class="cell-output-display">
+<p><img src="plotting_files/figure-html/unnamed-chunk-16-1.png" class="img-fluid" width="672"></p>
+</div>
+</div>
 <p>As you could see, the way <code>ggplot2</code> works is by adding a number of layers on top of each other, all following a standard set of rules, or “grammar”. This way, a vast array of graphs can be created by organizing simple components.</p>
-<p>Thanks to its vast popularity, the <code>ggplot2</code> has seen <a href="https://exts.ggplot2.tidyverse.org/gallery/">a proliferation of packages extending its capabilities</a>:</p>
+</section>
+<section id="layout" class="level3">
+<h3 class="anchored" data-anchor-id="layout">Layout</h3>
+<p>If you want to create multiple plots in the same frame, you simply add them to each other:</p>
+<div class="cell" data-hash="plotting_cache/html/unnamed-chunk-17_1d1ce736c1f7bd0dba5f268ba9501b21">
+<div class="sourceCode cell-code" id="cb26"><pre class="sourceCode r code-with-copy"><code class="sourceCode r"><span id="cb26-1"><a href="#cb26-1" aria-hidden="true" tabindex="-1"></a>plot1 <span class="ot">&lt;-</span> <span class="fu">ggplot</span>(mpg, <span class="fu">aes</span>(<span class="at">x =</span> displ, <span class="at">y =</span> hwy)) <span class="sc">+</span></span>
+<span id="cb26-2"><a href="#cb26-2" aria-hidden="true" tabindex="-1"></a>  <span class="fu">geom_point</span>(<span class="fu">aes</span>(<span class="at">color =</span> class)) <span class="sc">+</span></span>
+<span id="cb26-3"><a href="#cb26-3" aria-hidden="true" tabindex="-1"></a>  <span class="fu">scale_color_brewer</span>(<span class="at">palette =</span> <span class="st">"Dark2"</span>) <span class="sc">+</span></span>
+<span id="cb26-4"><a href="#cb26-4" aria-hidden="true" tabindex="-1"></a>  <span class="fu">geom_smooth</span>(<span class="at">method =</span> lm, <span class="at">se =</span> <span class="cn">FALSE</span>, <span class="at">color =</span> <span class="st">"#999999"</span>, <span class="at">linewidth =</span> <span class="fl">0.5</span>) <span class="sc">+</span></span>
+<span id="cb26-5"><a href="#cb26-5" aria-hidden="true" tabindex="-1"></a>  <span class="fu">labs</span>(</span>
+<span id="cb26-6"><a href="#cb26-6" aria-hidden="true" tabindex="-1"></a>    <span class="at">x =</span> <span class="st">"Engine size (L)"</span>,</span>
+<span id="cb26-7"><a href="#cb26-7" aria-hidden="true" tabindex="-1"></a>    <span class="at">y =</span> <span class="st">"Fuel economy (mpg) on highways"</span>,</span>
+<span id="cb26-8"><a href="#cb26-8" aria-hidden="true" tabindex="-1"></a>    <span class="at">color =</span> <span class="st">"Type of car"</span>,</span>
+<span id="cb26-9"><a href="#cb26-9" aria-hidden="true" tabindex="-1"></a>    <span class="at">caption =</span> <span class="st">"EPA data from https://fueleconomy.gov/"</span></span>
+<span id="cb26-10"><a href="#cb26-10" aria-hidden="true" tabindex="-1"></a>  ) <span class="sc">+</span></span>
+<span id="cb26-11"><a href="#cb26-11" aria-hidden="true" tabindex="-1"></a>  <span class="fu">theme_classic</span>() <span class="sc">+</span></span>
+<span id="cb26-12"><a href="#cb26-12" aria-hidden="true" tabindex="-1"></a>  <span class="fu">theme</span>(<span class="at">plot.title =</span> <span class="fu">element_text</span>(<span class="at">hjust =</span> <span class="fl">0.5</span>))</span>
+<span id="cb26-13"><a href="#cb26-13" aria-hidden="true" tabindex="-1"></a></span>
+<span id="cb26-14"><a href="#cb26-14" aria-hidden="true" tabindex="-1"></a>plot2 <span class="ot">&lt;-</span> <span class="fu">ggplot</span>(mpg, <span class="fu">aes</span>(<span class="at">x =</span> displ, <span class="at">y =</span> hwy)) <span class="sc">+</span></span>
+<span id="cb26-15"><a href="#cb26-15" aria-hidden="true" tabindex="-1"></a>  <span class="fu">geom_smooth</span>(<span class="at">se =</span> <span class="cn">FALSE</span>, <span class="at">color =</span> <span class="st">"#999999"</span>, <span class="at">linewidth =</span> <span class="fl">0.5</span>) <span class="sc">+</span></span>
+<span id="cb26-16"><a href="#cb26-16" aria-hidden="true" tabindex="-1"></a>  <span class="fu">labs</span>(</span>
+<span id="cb26-17"><a href="#cb26-17" aria-hidden="true" tabindex="-1"></a>    <span class="at">x =</span> <span class="st">"Engine size (L)"</span>,</span>
+<span id="cb26-18"><a href="#cb26-18" aria-hidden="true" tabindex="-1"></a>    <span class="at">y =</span> <span class="st">"Fuel economy (mpg) on highways"</span></span>
+<span id="cb26-19"><a href="#cb26-19" aria-hidden="true" tabindex="-1"></a>  ) <span class="sc">+</span></span>
+<span id="cb26-20"><a href="#cb26-20" aria-hidden="true" tabindex="-1"></a>  <span class="fu">theme_classic</span>() <span class="sc">+</span></span>
+<span id="cb26-21"><a href="#cb26-21" aria-hidden="true" tabindex="-1"></a>  <span class="fu">theme</span>(<span class="at">plot.title =</span> <span class="fu">element_text</span>(<span class="at">hjust =</span> <span class="fl">0.5</span>))</span>
+<span id="cb26-22"><a href="#cb26-22" aria-hidden="true" tabindex="-1"></a></span>
+<span id="cb26-23"><a href="#cb26-23" aria-hidden="true" tabindex="-1"></a>plot1 <span class="sc">+</span> plot2</span></code><button title="Copy to Clipboard" class="code-copy-button"><i class="bi"></i></button></pre></div>
+<div class="cell-output cell-output-stderr">
+<pre><code>`geom_smooth()` using formula = 'y ~ x'
+`geom_smooth()` using method = 'loess' and formula = 'y ~ x'</code></pre>
+</div>
+<div class="cell-output-display">
+<p><img src="plotting_files/figure-html/unnamed-chunk-17-1.png" class="img-fluid" width="672"></p>
+</div>
+</div>
+<p>More complex layouts can easily be built with the <a href="https://patchwork.data-imaginist.com/"><code>patchwork</code></a> package.</p>
+</section>
+</section>
+<section id="ggplot2-extensions" class="level2">
+<h2 class="anchored" data-anchor-id="ggplot2-extensions"><code>ggplot2</code> extensions</h2>
+<p>Thanks to its vast popularity, <code>ggplot2</code> has seen <a href="https://exts.ggplot2.tidyverse.org/gallery/">a proliferation of packages extending its capabilities</a>:</p>
 <iframe width="780" height="1000" src="https://exts.ggplot2.tidyverse.org/gallery/"></iframe>
 
 

diff --git a/_site/site_libs/quarto-html/anchor.min.js b/_site/site_libs/quarto-html/anchor.min.js
@@ -1,0 +1,9 @@
+// @license magnet:?xt=urn:btih:d3d9a9a6595521f9666a5e94cc830dab83b65699&dn=expat.txt Expat
+//
+// AnchorJS - v4.3.1 - 2021-04-17
+// https://www.bryanbraun.com/anchorjs/
+// Copyright (c) 2021 Bryan Braun; Licensed MIT
+//
+// @license magnet:?xt=urn:btih:d3d9a9a6595521f9666a5e94cc830dab83b65699&dn=expat.txt Expat
[1 lines of base64/hex data omitted]
+// @license-end
